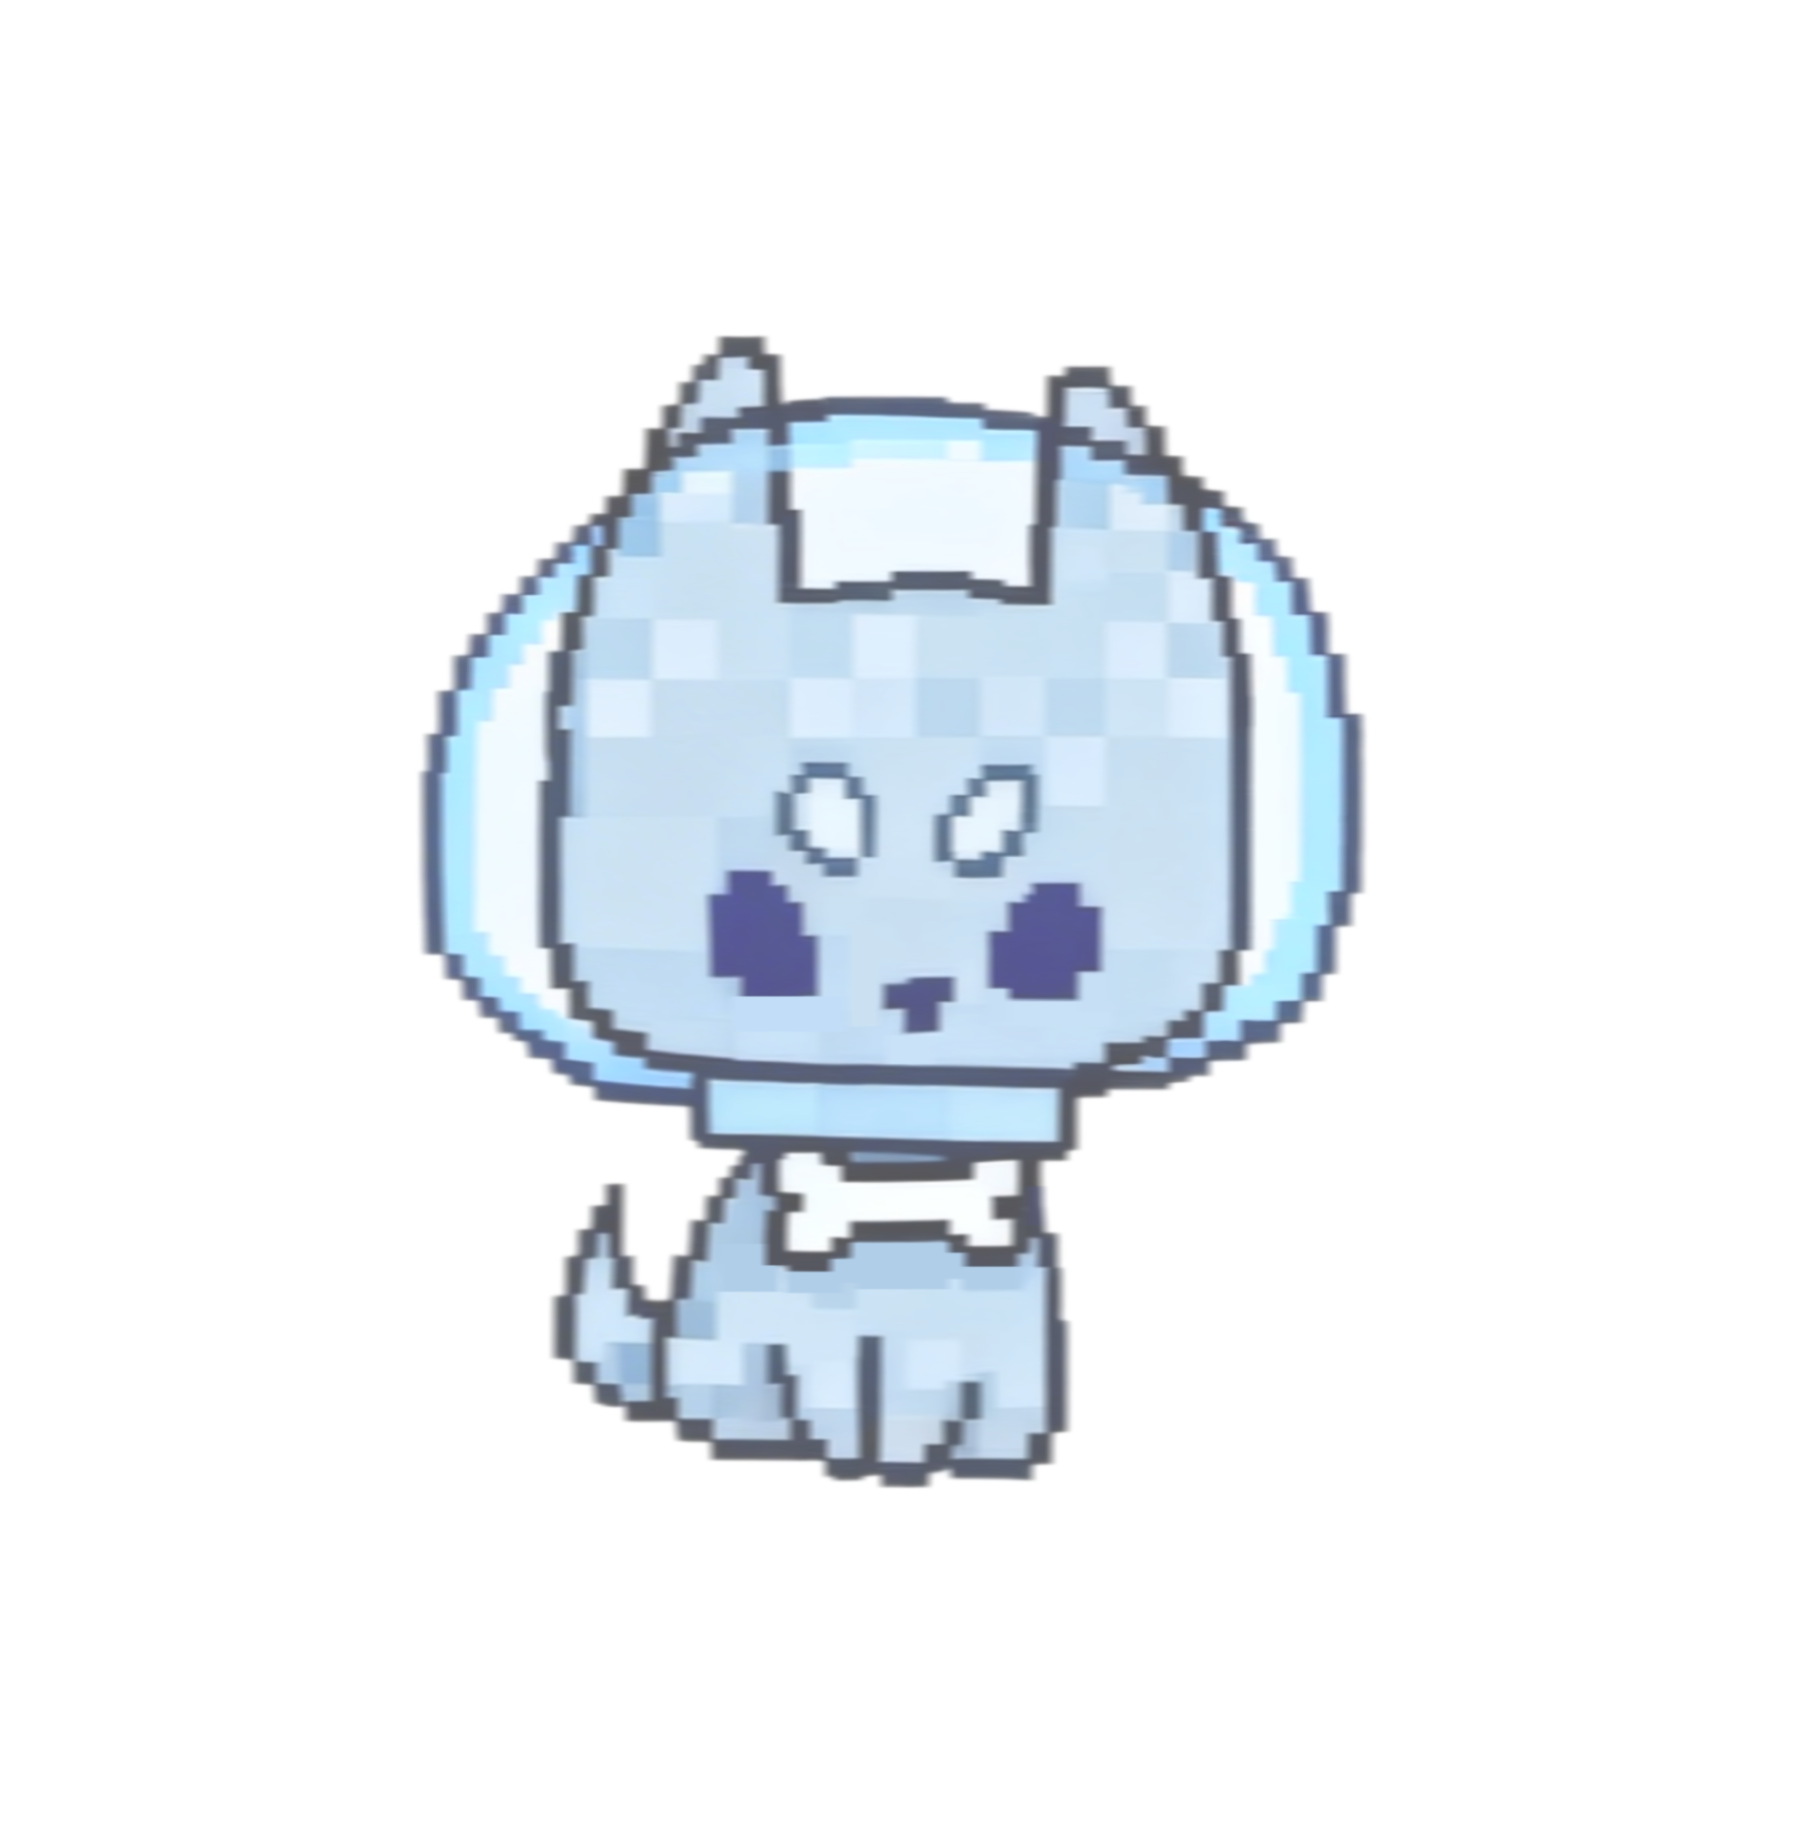
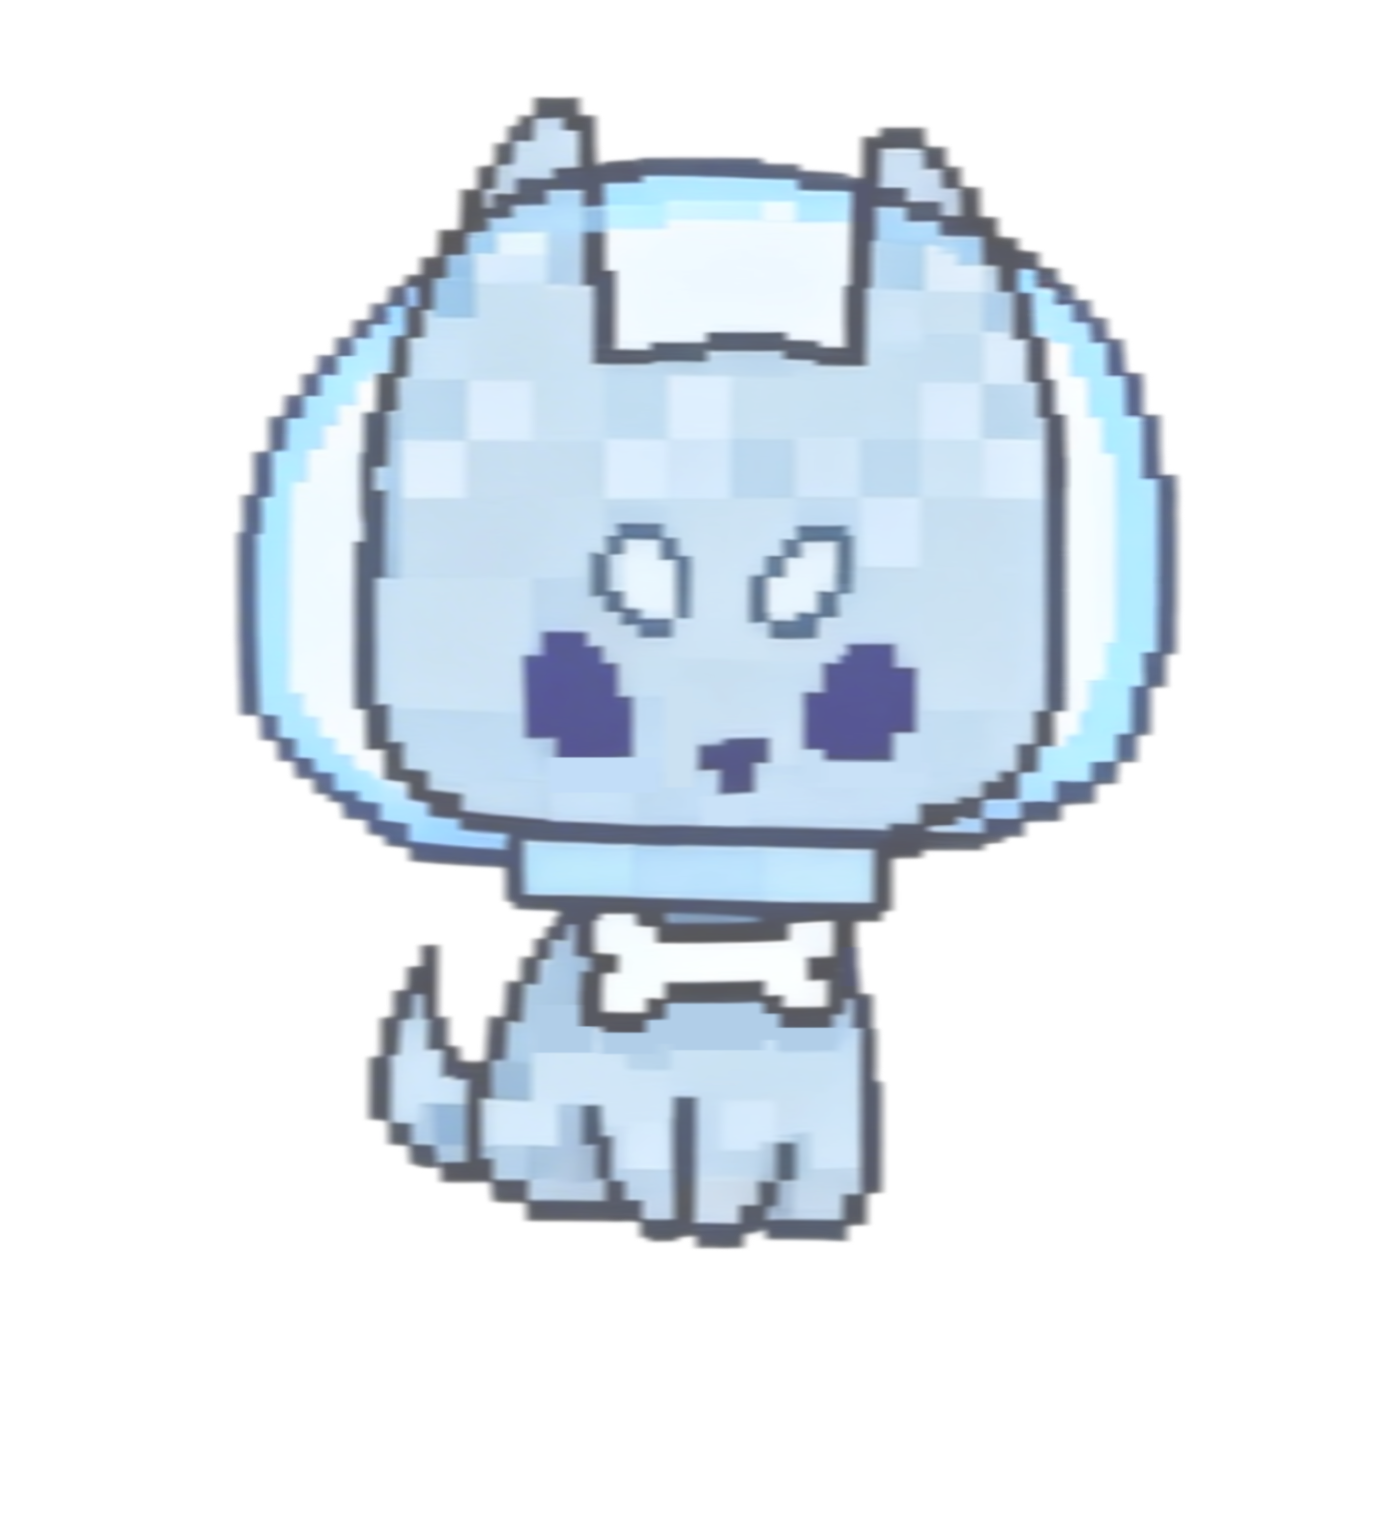
smaller-pet

Changed region(s): [[0.1557, 0.0621, 0.8718, 0.8382]]

diff --git a/js/pet.js b/js/pet.js
@@ -1,8 +1,8 @@
 // 小动物切换模块
 const pets = [
-  { name: 'cat', layers: ['access/image/cat1.PNG', 'access/image/cat2.PNG', 'access/image/cat3.PNG'] },
-  { name: 'dog', layers: ['access/image/dog1.PNG', 'access/image/dog2.PNG', 'access/image/dog3.PNG'] },
-  { name: 'spider', layers: ['access/image/spider1.PNG', 'access/image/spider2.PNG', 'access/image/spider3.PNG'] }
+  { name: 'cat', layers: ['access/image/cat.png', 'access/image/cat1.PNG', 'access/image/cat2.PNG', 'access/image/cat3.PNG'] },
+  { name: 'dog', layers: ['access/image/dog.png', 'access/image/dog1.PNG', 'access/image/dog2.PNG', 'access/image/dog3.PNG'] },
+  { name: 'spider', layers: ['access/image/spider.png', 'access/image/spider1.PNG', 'access/image/spider2.PNG', 'access/image/spider3.PNG'] }
 ];
 
 let currentPetIndex = 0;
@@ -58,6 +58,7 @@ menu.addEventListener('click', (e) => {
     layers[0].src = pets[currentPetIndex].layers[0];
     layers[1].src = pets[currentPetIndex].layers[1];
     layers[2].src = pets[currentPetIndex].layers[2];
+    layers[3].src = pets[currentPetIndex].layers[3];
     localStorage.setItem('selectedPet', currentPetIndex);
     menu.classList.remove('show');
   }
@@ -78,4 +79,5 @@ if (saved !== null) {
   layers[0].src = pets[currentPetIndex].layers[0];
   layers[1].src = pets[currentPetIndex].layers[1];
   layers[2].src = pets[currentPetIndex].layers[2];
+  layers[3].src = pets[currentPetIndex].layers[3];
 }

diff --git a/css/chat.css b/css/chat.css
@@ -1,15 +1,15 @@
 .pet {
   position: fixed;
-  left: 0%;
-  bottom: 25%;
+  left: 3%;
+  bottom: 5%;
   z-index: 100001;
   cursor: pointer;
 }
 
 .pet-layers {
   position: relative;
-  width: 17rem;
-  height: 17rem;
+  width: 25rem;
+  height: 25rem;
   animation: petFloat 3s ease-in-out infinite;
 }
 
@@ -19,8 +19,8 @@
 
 .pet-layer {
   position: absolute;
-  width: 200%;
-  height: 200%;
+  width: 100%;
+  height: 100%;
   object-fit: contain;
 }
 

diff --git a/index.html b/index.html
@@ -57,6 +57,7 @@
   </div>
   <div class="pet">
     <div class="pet-layers">
+      <img class="pet-layer pet-layer-0" src="access/image/cat.png">
       <img class="pet-layer pet-layer-1" src="access/image/cat1.PNG">
       <img class="pet-layer pet-layer-2" src="access/image/cat2.PNG">
       <img class="pet-layer pet-layer-3" src="access/image/cat3.PNG">

diff --git a/css/pet.css b/css/pet.css
@@ -8,7 +8,7 @@
   background: rgba(26, 26, 26, 0.95);
   padding: 10px;
   border-radius: 12px;
-  border: 2px solid #ff8c42;
+  border: 2px solid #42ecff;
 }
 
 .pet-menu.show {
@@ -34,6 +34,11 @@
   width: 100%;
   height: 100%;
   object-fit: cover;
+}
+
+.pet-layer-0{
+  opacity: 0;
+  pointer-events: none;
 }
 
 .pet-layer-1{
